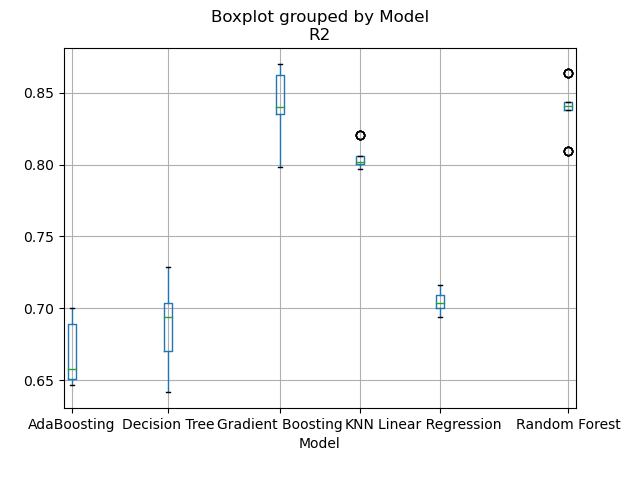
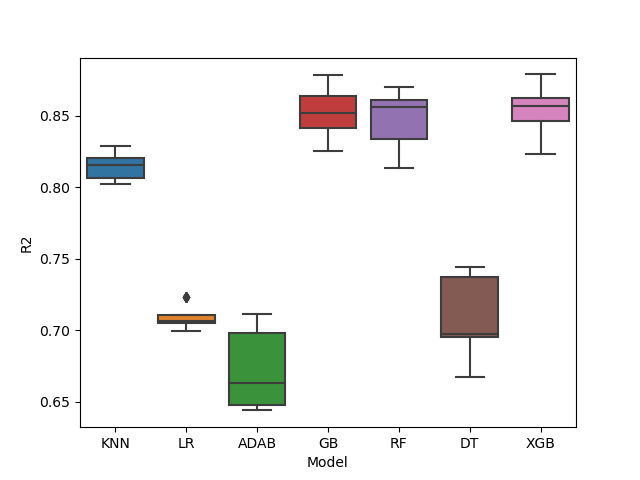
Fixed R2 and RMSE plots

diff --git a/price_predict.py b/price_predict.py
@@ -69,7 +69,7 @@ if __name__ == '__main__':
         print('Initializing clustering model...')
 
         cm = cluster_model(X_0, Y_0, X_train, X_test, Y_train, Y_test, cluster_type='latlong',\
-        cluster_methods=methods, regressors=regressors, plot_clusters=True, doRF=True)
+        cluster_methods=methods, regressors=regressors, plot_clusters=True, doMRMR=True)
 
         if savePlots:
             plot_train_test_split(X_train['long'], X_test['long'], X_train['lat'], X_test['lat'], k=k_iter+1)
@@ -115,13 +115,11 @@ if __name__ == '__main__':
         })
         scores = scores.explode('R2').explode('RMSE')
 
-        r2_plot = sns.boxplot(by='Model', column='R2')
-        r2_plot = r2_plot.get_figure()
-        r2_plot.savefig('./figures/'+method+'_R2_plot.png')
+        r2_plot = sns.boxplot(x='Model', y='R2', data=scores)
+        r2_plot.get_figure().savefig('./figures/'+method+'_R2_plot.png')
 
-        rmse_plot = sns.boxplot(by='Model', column='RMSE')
-        rmse_plot = rmse_plot.get_figure()
-        rmse_plot.savefig('./figures/'+method+'_RMSE_plot.png')
+        rmse_plot = sns.boxplot(x='Model', y='RMSE', data=scores)
+        rmse_plot.get_figure().savefig('./figures/'+method+'_RMSE_plot.png')
 
     '''
     pd.DataFrame({

diff --git a/cluster_model.py b/cluster_model.py
@@ -250,7 +250,7 @@ class cluster_model(object):
                         model[label]['xgboost'] = {}
                         model[label]['xgboost']['model'] = xgboost.XGBRegressor(n_estimators=900, learning_rate=0.05, max_depth=5)
                         model[label]['xgboost']['model'].fit(model[label]['X_train'], model[label]['Y_train']['price'])
-                        
+
                     elif regressor == 'pr2':
                         # Need to create and fit poly features in same function
                         model[label]['pr2']['model'] = LinearRegression(normalize=True)
